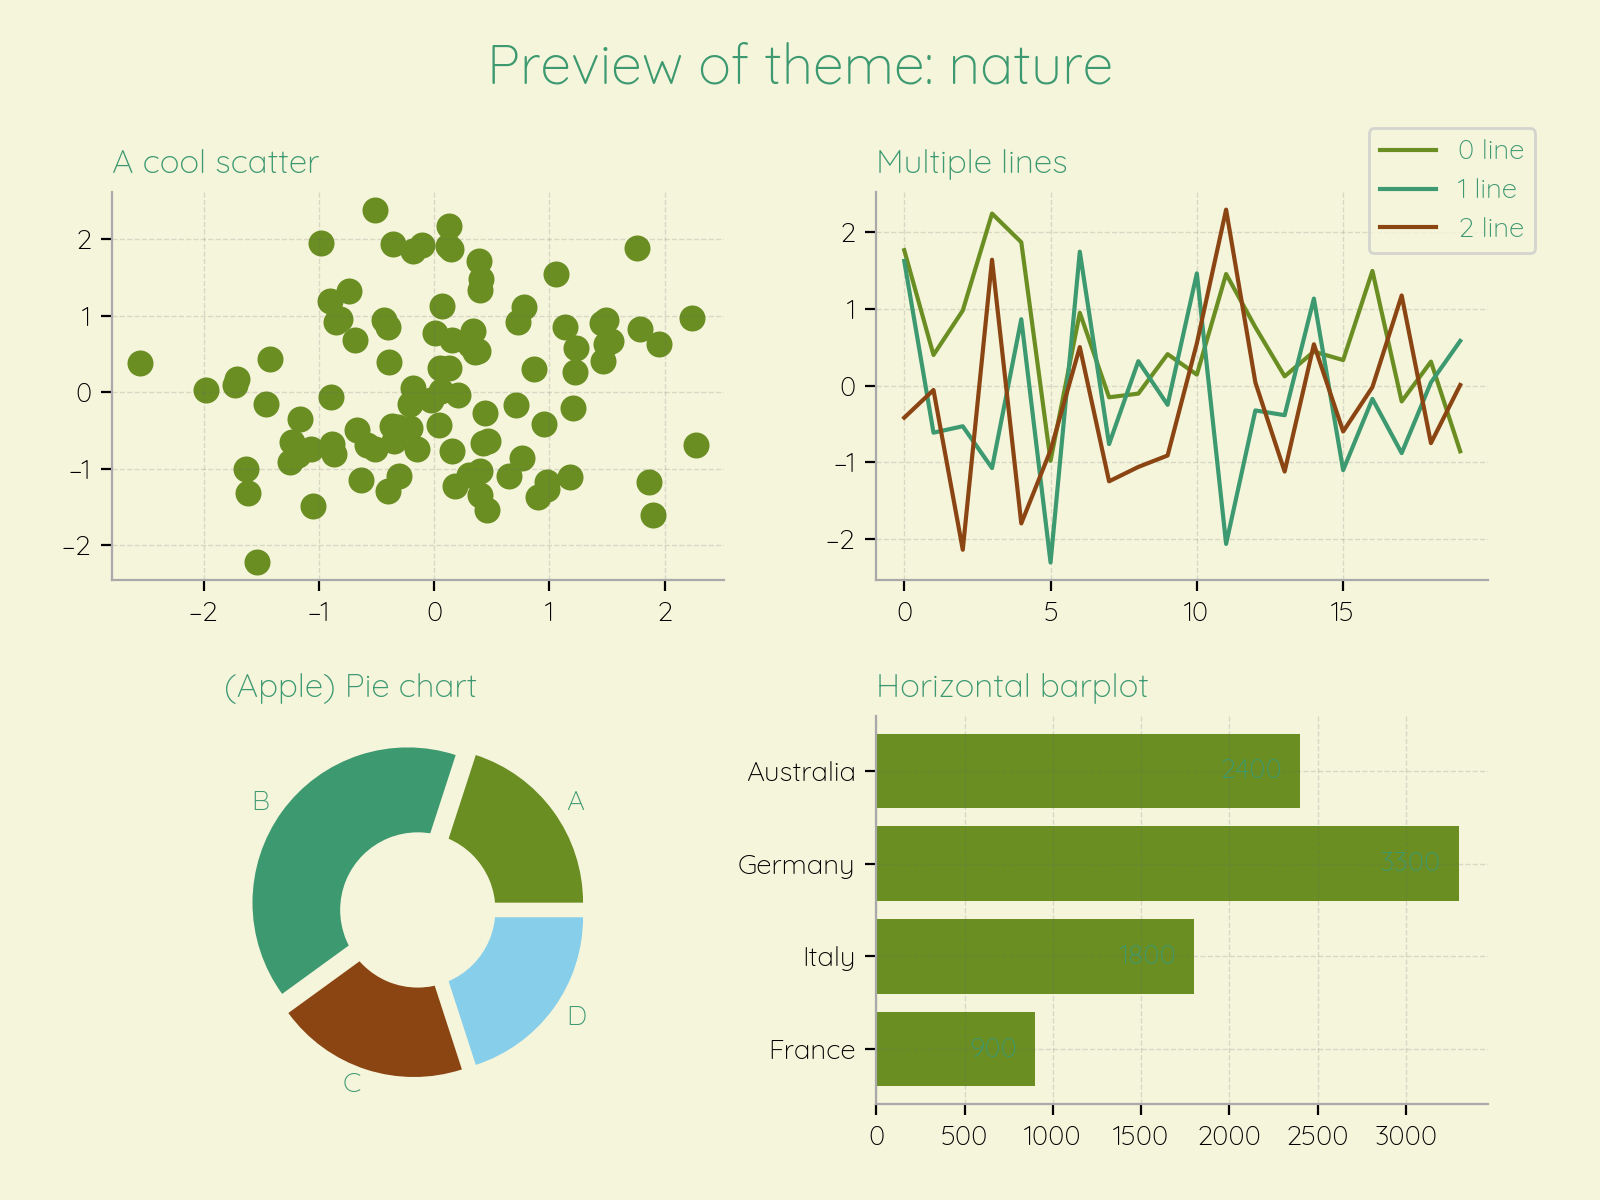
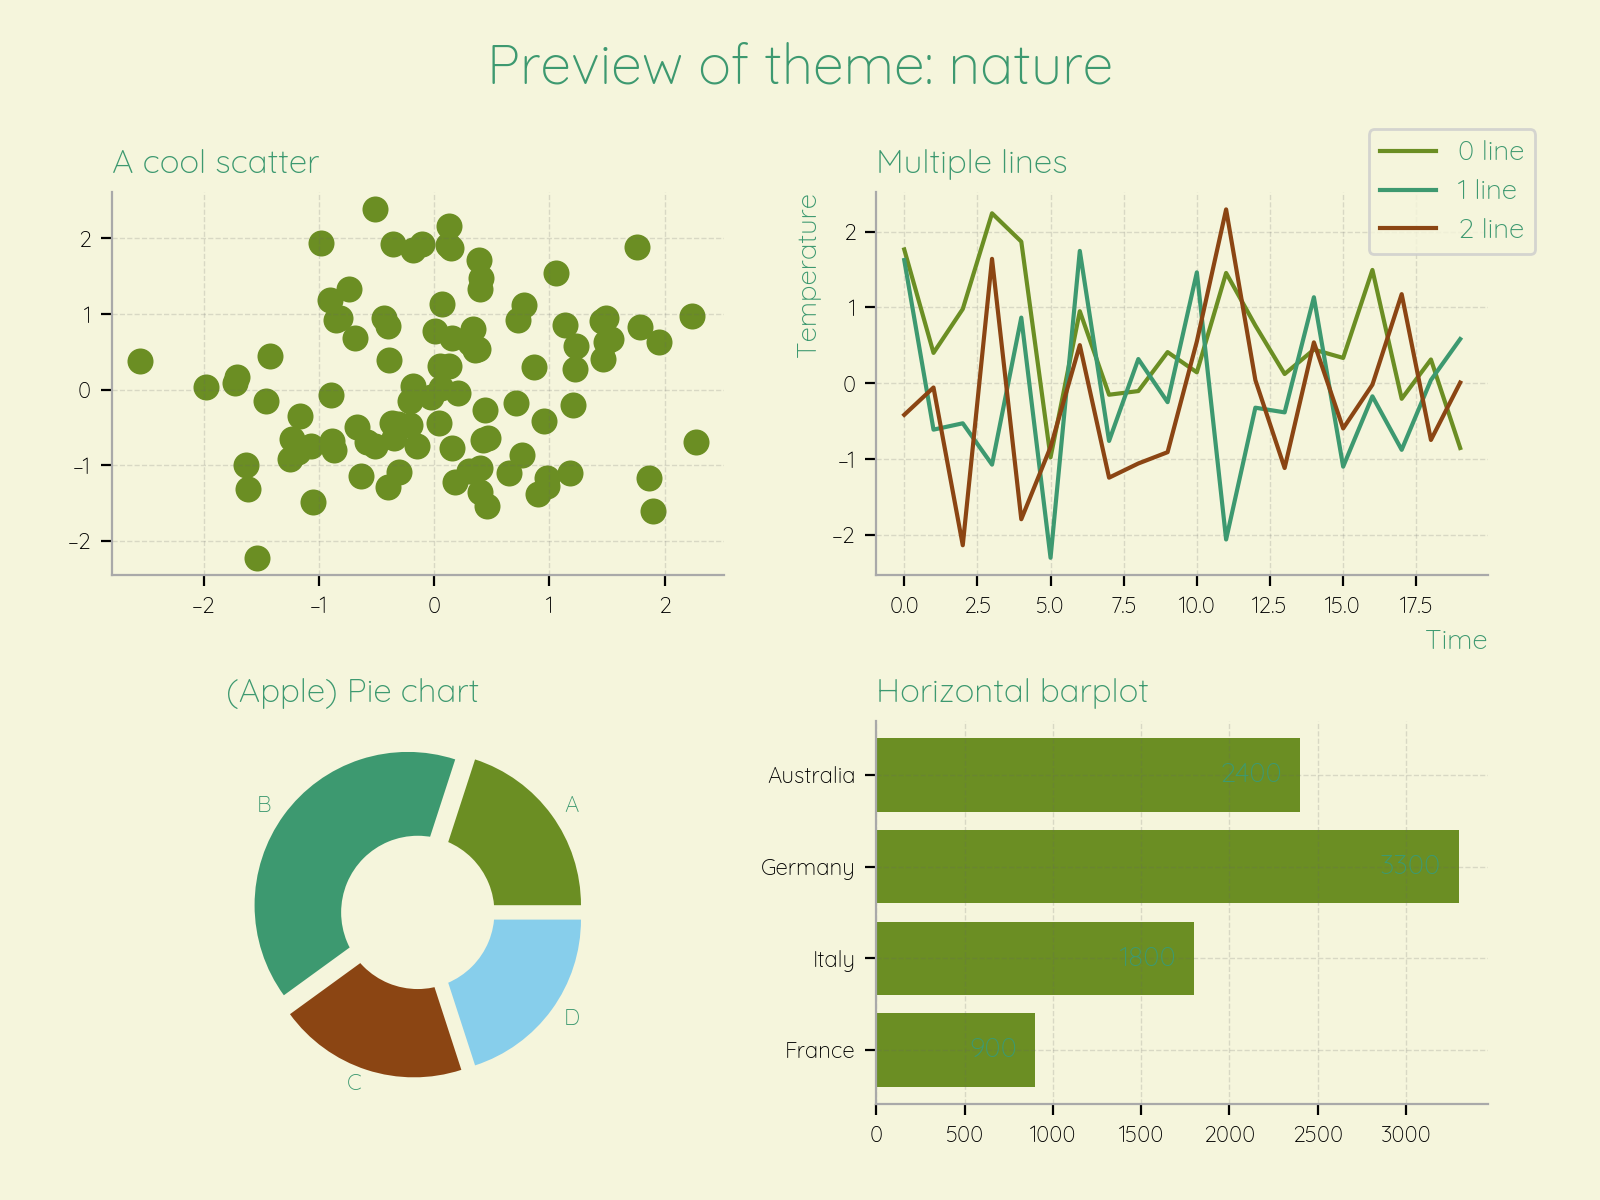
better themes

diff --git a/morethemes/themes.py b/morethemes/themes.py
@@ -15,6 +15,8 @@ darker_theme = {
         "ytick.minor.visible": False,
         "scatter.marker": "H",
         "lines.linewidth": 2.5,
+        "yaxis.labellocation": "top",
+        "xaxis.labellocation": "right",
         "axes.labelsize": 12,
         "axes.linewidth": 1.5,
         "text.color": "#fff",
@@ -46,6 +48,8 @@ yellowish_theme = {
         "ytick.major.pad": 5,
         "xtick.major.pad": 5,
         "axes.grid": True,
+        "yaxis.labellocation": "top",
+        "xaxis.labellocation": "right",
         "grid.linewidth": 0.6,
         "grid.alpha": 0.2,
         "grid.color": "#5d5d5d",
@@ -78,6 +82,8 @@ urban_theme = {
         "xtick.major.pad": 5,
         "axes.spines.top": False,
         "axes.spines.right": False,
+        "yaxis.labellocation": "top",
+        "xaxis.labellocation": "right",
         "axes.grid": True,
         "grid.linewidth": 0.6,
         "grid.alpha": 0.1,
@@ -108,6 +114,8 @@ wsj_theme = {
         "axes.spines.top": False,
         "axes.spines.right": False,
         "axes.spines.left": False,
+        "yaxis.labellocation": "top",
+        "xaxis.labellocation": "right",
         "ytick.major.pad": 5,
         "xtick.major.pad": 5,
         "axes.grid": True,
@@ -155,6 +163,8 @@ economist_theme = {
         "axes.spines.left": False,
         "ytick.major.pad": 5,
         "xtick.major.pad": 5,
+        "yaxis.labellocation": "top",
+        "xaxis.labellocation": "right",
         "axes.grid": True,
         "grid.linewidth": 0.4,
         "grid.linestyle": "-",
@@ -200,8 +210,8 @@ minimal_theme = {
         "xtick.major.pad": 5,
         "axes.grid": True,
         "grid.linewidth": 0.8,
-        "ytick.labelsize": 8,
-        "xtick.labelsize": 8,
+        "yaxis.labellocation": "top",
+        "xaxis.labellocation": "right",
         "grid.linestyle": "-",
         "grid.alpha": 0.1,
         "axes.linewidth": 1.2,
@@ -233,6 +243,8 @@ ft_theme = {
         "axes.spines.bottom": True,
         "ytick.major.pad": 5,
         "xtick.major.pad": 5,
+        "yaxis.labellocation": "top",
+        "xaxis.labellocation": "right",
         "axes.grid": False,
         "lines.linewidth": 2.5,
         "axes.linewidth": 0.8,
@@ -262,6 +274,8 @@ retro_theme = {
         "ytick.minor.visible": False,
         "xtick.major.size": 5,
         "ytick.major.size": 5,
+        "yaxis.labellocation": "top",
+        "xaxis.labellocation": "right",
         "axes.grid": True,
         "grid.linewidth": 1.0,
         "grid.linestyle": ":",
@@ -294,6 +308,10 @@ nature_theme = {
         "ytick.minor.visible": False,
         "xtick.major.size": 4,
         "ytick.major.size": 4,
+        "ytick.labelsize": 8,
+        "xtick.labelsize": 8,
+        "yaxis.labellocation": "top",
+        "xaxis.labellocation": "right",
         "axes.grid": True,
         "grid.linewidth": 0.5,
         "grid.linestyle": "--",
@@ -323,6 +341,8 @@ monoblue_theme = {
         "xtick.major.size": 5,
         "ytick.major.size": 5,
         "ytick.minor.visible": False,
+        "yaxis.labellocation": "top",
+        "xaxis.labellocation": "right",
         "scatter.marker": "o",
         "lines.linewidth": 2.0,
         "axes.labelsize": 12,

diff --git a/morethemes/preview.py b/morethemes/preview.py
@@ -11,7 +11,7 @@ def preview_theme(theme=None) -> mpl.figure.Figure:
 
     fig, axs = plt.subplots(ncols=2, nrows=2, figsize=(8, 6), dpi=200)
     fig.subplots_adjust(
-        wspace=0.25, hspace=0.35, top=0.84, bottom=0.08, left=0.07, right=0.93
+        wspace=0.25, hspace=0.38, top=0.84, bottom=0.08, left=0.07, right=0.93
     )
 
     axs[0, 0].scatter(np.random.normal(size=100), np.random.normal(size=100), s=70)
@@ -26,6 +26,7 @@ def preview_theme(theme=None) -> mpl.figure.Figure:
     axs[0, 1].text(
         x=0, y=1.05, s="Multiple lines", transform=axs[0, 1].transAxes, size=12
     )
+    axs[0, 1].set(xlabel="Time", ylabel="Temperature")
 
     labels = ["France", "Italy", "Germany", "Australia"]
     values = [900, 1800, 3300, 2400]
